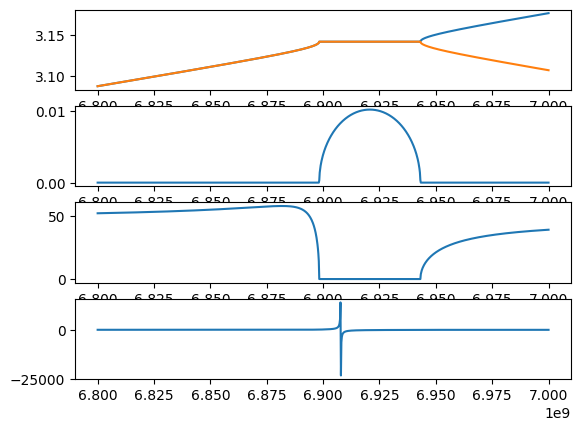
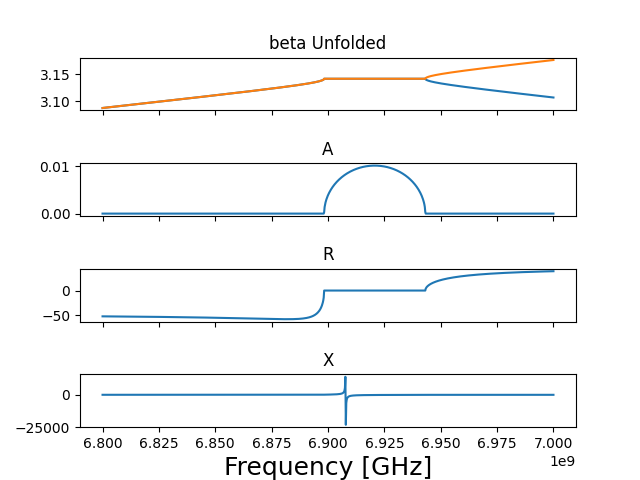
update to server

Changed region(s): [[0.031, 0.0302, 0.9914, 1.0], [0.9604, 0.181, 0.9914, 0.2111], [0.9294, 0.0, 0.9604, 0.0302]]

diff --git a/Fluqet_Line_Equations/microStrip/beta_unfold.py b/Fluqet_Line_Equations/microStrip/beta_unfold.py
@@ -11,12 +11,11 @@ class SCFL_Model():
 
     def __init__(self, unit_Cell_Len, l1, width_unloaded, a, b, er, Height, line_thickness,
                  ground_thickness,
-                 critical_Temp, pn, tanD, op_temp, Ic=None):
+                 critical_Temp, pn, tanD, op_temp, Jc):
 
         # ---------------------------- unit cell inputs
         self.unit_Cell_Len = unit_Cell_Len
         self.width_unloaded = width_unloaded
-
 
         self.width_loaded = width_unloaded * a
 
@@ -30,7 +29,6 @@ class SCFL_Model():
         self.tanD = tanD
         self.op_temp = op_temp
 
-        # todo is there a wat to make this general
         # ---------------------------- line dimensions
 
         self.L1 = .5 * ((unit_Cell_Len / 3) - l1)
@@ -40,6 +38,11 @@ class SCFL_Model():
         self.L5 = (unit_Cell_Len / 3) - .5 * (3 * l1)
         self.L6 = 2 * l1
         self.L7 = .5 * ((unit_Cell_Len / 3) - (3 * l1))
+
+        # print(self.L7 + (self.L6/2))
+        # print(self.L5 + (self.L6/2) + (self.L4/2))
+        # print(self.L3 + (self.L2/2) + (self.L4/2))
+        # print(self.L1 + (self.L2/2))
 
         # todo go back to old line from other paper
 
@@ -56,11 +59,11 @@ class SCFL_Model():
 
         # ---------------------------- models of SuperConductingMicroStripModel
         # ---------------------------- one for unloaded , one for loaded
-        self.model_loaded = SuperConductingMicroStripModel(self.Height, self.width_loaded, self.line_thickness, self.er,
-                                                           self.tanD)
-        self.model_unloaded = SuperConductingMicroStripModel(self.Height, self.width_unloaded, self.line_thickness,
-                                                             self.er, self.tanD)
 
+        self.model_loaded = SuperConductingMicroStripModel(self.Height, self.width_loaded, self.line_thickness, self.er,
+                                                           self.tanD, Jc)
+        self.model_unloaded = SuperConductingMicroStripModel(self.Height, self.width_unloaded, self.line_thickness,
+                                                             self.er, self.tanD, Jc)
         self.conductivity_model = SuperConductivity(op_temp, critical_Temp, pn)
 
         # ------ globals for beta for when freq starting at close to 0
@@ -80,9 +83,6 @@ class SCFL_Model():
         # loaded_propagation, loaded_Zc = self.model_loaded.propagation_constant_characteristic_impedance(freq, zs)
         # Unloaded_propagation, Unloaded_Zc = self.model_unloaded.propagation_constant_characteristic_impedance(freq, zs)
 
-
-
-
     def beta_unfolded(self, freq):
         freq = max(freq, 1000)
 
@@ -101,10 +101,16 @@ class SCFL_Model():
         # calc surface impedence
 
         # opt would be to store after first run all conductivity values for a given  freq rannge for a given  self.op_temp, self.critical_Temp, self.pn
+        st = time.time()
         zs = self.conductivity_model.Zs(freq, self.conductivity_model.conductivity(freq), self.line_thickness)
+        self.tot += time.time() - st
 
         loaded_propagation, loaded_Zc = self.model_loaded.propagation_constant_characteristic_impedance(freq, zs)
         Unloaded_propagation, Unloaded_Zc = self.model_unloaded.propagation_constant_characteristic_impedance(freq, zs)
+
+        # cental line
+
+        # CL = ABCD_TL(Unloaded_Zc, Unloaded_propagation, self.unit_Cell_Len)
 
         # ------------- ABCD 1 -------------
         mat1 = ABCD_TL(Unloaded_Zc, Unloaded_propagation, self.L1)
@@ -128,10 +134,8 @@ class SCFL_Model():
         mat7 = ABCD_TL(Unloaded_Zc, Unloaded_propagation, self.L7)
 
         # ------------- ABCD UNIT CELL-------------
-        st = time.time()
 
         ABCD_UC = UnitCellABCD_mats([mat1, mat2, mat3, mat4, mat5, mat6, mat7])
-        self.tot+= time.time()-st
 
         # ---------------------------- calc bloch impedance and propagation const for UC
 
@@ -143,28 +147,32 @@ class SCFL_Model():
         a = pb.real
         bta = pb.imag
 
-        # todo if we need a more general formulation of flat zones maybe calc min() / max() of beta also
-        # todo if we need a more general formulation of flat zones just see when prev == current val could work or dist is within some delta thresh
-        # todo could also do abs(beta) and do some translating
-        b = bta
-        bta = abs(bta)
-        # at a top or bottom
+        #
+        # # todo if we need a more general formulation of flat zones maybe calc min() / max() of beta also
+        #         # todo if we need a more general formulation of flat zones just see when prev == current val could work or dist is within some delta thresh
+        #         # todo could also do abs(beta) and do some translating
 
+        unfolded = bta
 
-        if self.looking and (bta <= 0.0000001 or bta >= PI):
+        if self.looking and (unfolded <= 0.0000001 or unfolded >= PI):
             self.looking = False
         # on a slope
         else:
-            if not self.looking and (bta > 0.0000001 and bta < PI):
+            if not self.looking and (unfolded > 0.0000001 and unfolded < PI):
                 self.region += 1
                 self.PiMult += PI
                 self.flipping = not self.flipping
                 self.looking = True
 
         if self.flipping:
-            bta += 2 * abs(PI - bta) + (self.PiMult - PI)
+            unfolded += 2 * abs(PI - unfolded) + (self.PiMult - PI)
         else:
-            bta += self.PiMult
+            unfolded += self.PiMult
 
-        # todo renme bta to btaUnfolded and b to btafolded and return other a ,r ,x
-        return a, bta, b, r, x
+        #         # todo renme bta to btaUnfolded and b to btafolded and return other a ,r ,x
+
+        return a, bta,unfolded, r, x
+
+    def unfold(self, data):
+
+        pass

diff --git a/TransmissionLineEquations/microStrip/MicroStripModel.py b/TransmissionLineEquations/microStrip/MicroStripModel.py
@@ -28,7 +28,7 @@ from Supports.constants import PI, MU_0, PI2, PI4, PLANCK_CONST_REDUCEDev, K0, c
 
 class SuperConductingMicroStripModel(TransmissionLineModel):
 
-    def __init__(self, height, width, thickness, epsilon_r, tan_delta,temp = True):
+    def __init__(self, height, width, thickness, epsilon_r, tan_delta, Jc):
 
         self.height = height
         self.width = width
@@ -36,14 +36,14 @@ class SuperConductingMicroStripModel(TransmissionLineModel):
         self.epsilon_r = epsilon_r
         self.tan_delta = tan_delta
 
-        if temp:
-            self.g1 = self.gg1(self.width, self.height, self.thickness)
-            self.g2 = self.gg2(self.width, self.height, self.thickness)
-            self.epsilon_fm = self.epsilon_effst(self.epsilon_r, self.width, self.height, self.thickness)
+        self.Ic = thickness * width * Jc
+
+        self.g1 = self.gg1(self.width, self.height, self.thickness)
+        self.g2 = self.gg2(self.width, self.height, self.thickness)
+        self.epsilon_fm = self.epsilon_effst(self.epsilon_r, self.width, self.height, self.thickness)
 
     # ----------  schneider   t = 0  ----------
     def Fs(self, w, h):
-
 
         return cmath.sqrt(1 + (10 * (h / w)))
 
@@ -205,7 +205,7 @@ class SuperConductingMicroStripModel(TransmissionLineModel):
 
     # checked
     def DeltaY(self, eta, p):
-        return max(eta,p)
+        return max(eta, p)
 
     # checked
     def Kl(self, w, h, t):
@@ -318,6 +318,11 @@ class SuperConductingMicroStripModel(TransmissionLineModel):
         CF = (cmath.sqrt(1 - 1j * self.X(zs, f, w, H, ts))).real
         return 1 - (1 / CF ** 2)
 
+
+    #opt  make sure no repeated work is done with apha_ky may be calcing twice per frequencey
+    def I_star(self ,zs, f, w, H, ts):
+        return self.Ic / math.sqrt(self.apha_ky(zs, f, w, H, ts))
+
     # Phase velocity respect to vo = c
     # checked
     def vSy(self, est, zs, f, epsilon_r, w, H, ts):
@@ -388,17 +393,10 @@ class SuperConductingMicroStripModel(TransmissionLineModel):
     def propagation_constant(self, Z, Y):
         return cmath.sqrt(Z * Y)
 
-
-
-
-
-
-
-    def propagation_constant_characteristic_impedance(self, freq,zs):
+    def propagation_constant_characteristic_impedance(self, freq, zs):
 
         Z = self.series_impedance_Z(zs, self.g1, self.g2, freq)
         Y = self.shunt_admittance_Y(self.epsilon_fm, self.g1, freq)
         propagation_constant = cmath.sqrt(Z * Y)
         characteristic_impedance = cmath.sqrt(Z / Y)
         return propagation_constant, characteristic_impedance
-

diff --git a/Server/runGraphs.py b/Server/runGraphs.py
@@ -5,44 +5,28 @@ from Fluqet_Line_Equations.microStrip.beta_unfold import SCFL_Model
 from Supports.Support_Functions import nanoMeter_to_Meter, microMeter_to_Meters
 
 
-
-
-
-
 def mkGraphs(unit_Cell_Len, l1, width_unloaded, a, b, er, Height, line_thickness, ground_thickness,
-                           critical_Temp, pn, tanD, op_temp,StartFreq, EndFreq, resolution):
+             critical_Temp, pn, tanD, op_temp, StartFreq, EndFreq, resolution, Jc):
     s = time.time()
 
+    freqs = np.linspace(int(StartFreq), int(EndFreq), int(resolution))
+
     lineModel = SCFL_Model(unit_Cell_Len, l1, width_unloaded, a, b, er, Height, line_thickness, ground_thickness,
-                           critical_Temp, pn, tanD, op_temp)
-    betaUnfoled, folded, freqs = [], [], []
-    a, r, x = [], [], []
+                           critical_Temp, pn, tanD, op_temp, Jc)
+    betaUnfoled, folded = [], []
+    f,a, r, x = [], [], [],[]
 
-
-
-    for F in np.linspace(int(StartFreq), int(EndFreq), int(resolution)):
-        aa, bta, b, rr, xx = lineModel.beta_unfolded(F)
-        betaUnfoled.append(bta)
+    for F in freqs:
+        aa, bta, btaUnfolded, rr, xx = lineModel.beta_unfolded(F)
+        betaUnfoled.append(btaUnfolded)
         a.append(aa)
         folded.append(b)
-        r.append(abs(rr))
+        r.append(rr)
         x.append(xx)
-        freqs.append(F)
+        f.append(F)
 
     print("total time taken for timed element: ", lineModel.tot)
     totaltime = time.time() - s
     print("total time: ", totaltime, " % of total time taken up to calc element ", lineModel.tot * 100 / totaltime, "%")
 
-    fig, (a1, a2, a3, a4) = plt.subplots(4)
-    a1.plot(freqs, betaUnfoled)
-    a1.plot(freqs, folded)
-    a2.plot(freqs, a)
-    a3.plot(freqs, r)
-    a4.plot(freqs, x)
-    plt.savefig('foo.png', bbox_inches='tight')
-    plt.savefig('/Users/aaron/Desktop/proj/src/images/plt.png', bbox_inches='tight')
-
-
-
-
-
+    return {"Freqs": f, "Alpha": a, "Beta": betaUnfoled, "r": r, "x": x}

diff --git a/Server/server.py b/Server/server.py
@@ -1,4 +1,3 @@
-
 import base64
 import io
 import time
@@ -18,19 +17,16 @@ app = Flask(__name__)
 
 @app.route('/api/plot', methods=['POST'])
 def get_query_from_react():
-
-    Error_msg = ""
+    Error_msg = "None"
     successful = True
 
     try:
 
         data = request.get_json()['data']
 
-
         StartFreq = toMHz(float(data['StartFreq']))
         EndFreq = toMHz(float(data['EndFreq']))
         resolution = int(data['resolution'])
-
 
         Er = float(data['Er'])
         H = nanoMeter_to_Meter(float(data['H']))
@@ -60,12 +56,10 @@ def get_query_from_react():
 
 
     except:
-
+        print("failure on inputs")
         inputFailure = ["todo"]
         Error_msg = f"failure to read input(s): {inputFailure}"
         successful = False
-
-
 
     # ---------------------------- unit cell inputs from paper
     unit_Cell_Len = microMeter_to_Meters(2300)
@@ -75,18 +69,22 @@ def get_query_from_react():
     b = 2
 
     # ---------------------------- SC inputs
-
+    graphData = {}
     if successful:
         try:
-            mkGraphs(unit_Cell_Len, l1, width_unloaded, a, b, Er, H, Ts, Tg,
-                 Tc, Pn, tand, Temp,StartFreq, EndFreq, resolution)
+            graphData = mkGraphs(unit_Cell_Len, l1, width_unloaded, a, b, Er, H, Ts, Tg,
+                     Tc, Pn, tand, Temp, StartFreq, EndFreq, resolution, Jc)
         except:
+            Error_msg = "failed on run"
             successful = False
 
+    #opt compact data with groupby() kinda
+    # opt adaptive sampling algo to speend up and mk graphs better
     return {
-            "successful":successful,
-            "Error_msg":Error_msg
-            }
+        "successful": successful,
+        "Error_msg": Error_msg,
+        "GraphData":graphData
+    }
 
 
 if __name__ == "__main__":

diff --git a/Fluqet_Line_Equations/microStrip/beta_unfold_test.py b/Fluqet_Line_Equations/microStrip/beta_unfold_test.py
@@ -21,16 +21,15 @@ critical_Temp = 14.28
 op_temp = 0
 pn = 1.008e-6
 tanD = 0
-
-
+Jc = 1
 
 
 
 s = time.time()
 
 lineModel = SCFL_Model(unit_Cell_Len, l1, width_unloaded, a, b, er, Height, line_thickness, ground_thickness,
-                       critical_Temp, pn, tanD, op_temp)
-betaUnfoled, folded, freqs = [], [], []
+                       critical_Temp, pn, tanD, op_temp,Jc)
+beta, betaUf, freqs = [], [], []
 a, r, x = [], [], []
 
 
@@ -39,24 +38,33 @@ StartFreq, EndFreq, resolution = 6.8e9, 7e9, 1000
 
 
 for F in np.linspace(StartFreq, EndFreq, resolution):
-    aa, bta, b, rr, xx = lineModel.beta_unfolded(F)
-    betaUnfoled.append(bta)
+    aa, bta,unfolded, rr, xx = lineModel.beta_unfolded(F)
+    beta.append(bta)
+    betaUf.append(unfolded)
     a.append(aa)
-    folded.append(b)
-    r.append(rr)
+    r.append(rr) # todo abs() ?
     x.append(xx)
     freqs.append(F)
+
 
 print("total time taken for timed element: ", lineModel.tot)
 totaltime = time.time() - s
 print("total time: ", totaltime," % of total time taken up to calc element ",lineModel.tot *100 / totaltime,"%")
 
 fig, (a1, a2, a3, a4) = plt.subplots(4)
-a1.plot(freqs, betaUnfoled)
-a1.plot(freqs, folded)
+a1.plot(freqs, beta)
+a1.set_title('beta Unfolded')
+a1.plot(freqs, betaUf)
+
+a2.set_title('A')
 a2.plot(freqs, a)
+
+a3.set_title('R')
 a3.plot(freqs, r)
+
+a4.set_title('X')
 a4.plot(freqs, x)
+plt.subplots_adjust(hspace = 1)
 plt.show()
 
 

diff --git a/Fluqet_Line_Equations/microStrip/Fluqet_line_equations.py b/Fluqet_Line_Equations/microStrip/Fluqet_line_equations.py
@@ -57,6 +57,8 @@ def UnitCellABCD(Z, Gamma, L):
 def UnitCellABCD_mats(mats):
     res = mats[0]
     for mat in mats[1:]:
+
+        # definition of matrix mult for 2x2 * 2x2
         res = [
             [res[0][0] * mat[0][0] + res[0][1] * mat[1][0], res[0][0] * mat[0][1] + res[0][1] * mat[1][1]],
             [res[1][0] * mat[0][0] + res[1][1] * mat[1][0], res[1][0] * mat[0][1] + res[1][1] * mat[1][1]]]
